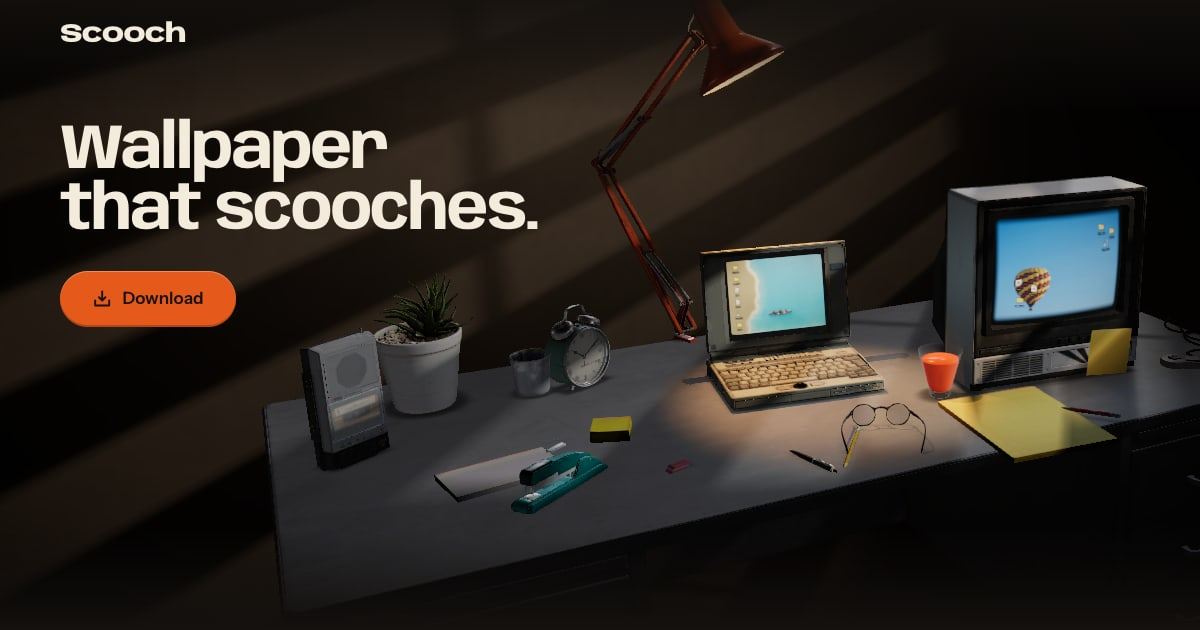
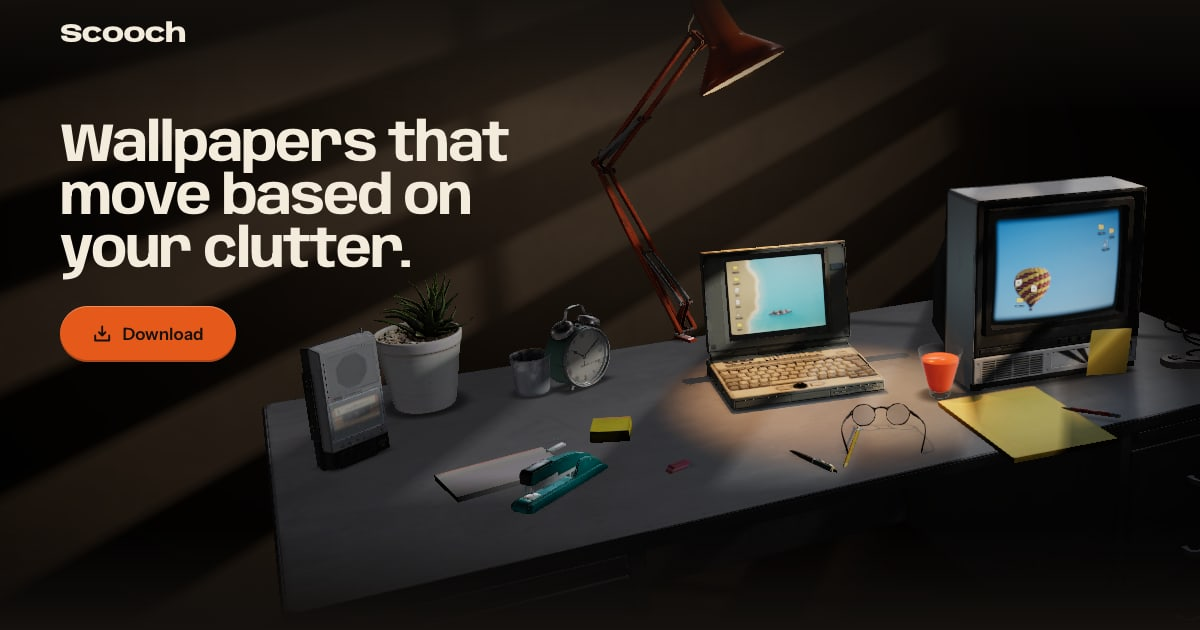
Reword and shrink the hero headline

Changed region(s): [[0.0308, 0.181, 0.4625, 0.573]]

diff --git a/site/index.html b/site/index.html
@@ -18,10 +18,10 @@
     <meta property="og:title" content="Scooch moves your wallpaper out from under your icons" />
     <meta property="og:description" content="Scooch moves your own wallpaper so desktop icons stay off the best part of the picture. It works with any image on macOS, Windows and Linux." />
     <meta property="og:url" content="https://sohanbhat.me/scooch/" />
-    <meta property="og:image" content="https://sohanbhat.me/scooch/share.jpg?v=4" />
+    <meta property="og:image" content="https://sohanbhat.me/scooch/share.jpg?v=5" />
     <meta property="og:image:width" content="1200" />
     <meta property="og:image:height" content="630" />
-    <meta property="og:image:alt" content="An old beige laptop on a metal desk under an orange lamp, next to the words Wallpaper that scooches." />
+    <meta property="og:image:alt" content="An old beige laptop on a metal desk under an orange lamp, next to the words Wallpapers that move based on your clutter." />
     <meta name="twitter:card" content="summary_large_image" />
     <script type="application/ld+json">{"@context":"https://schema.org","@type":"SoftwareSourceCode","name":"Scooch","url":"https://sohanbhat.me/scooch/","codeRepository":"https://github.com/sohan-bhat/scooch","author":{"@type":"Person","@id":"https://sohanbhat.me/#person","name":"Sohan Bhat","url":"https://sohanbhat.me/"}}</script>
     <script>document.documentElement.classList.add('js');var u=navigator.userAgent;document.documentElement.dataset.system=/[?&]share/.test(location.search)||/Android|iPhone|iPad|iPod/i.test(u)?'any':/Windows/i.test(u)?'windows':/Linux|X11|CrOS/i.test(u)?'linux':'macos';try{var c=document.createElement('canvas');c.width=c.height=1;var g=c.getContext('webgl2')||c.getContext('webgl');if(!g||/[?&]stills/.test(location.search))document.documentElement.classList.add('stills-mode')}catch(e){document.documentElement.classList.add('stills-mode')}</script>

diff --git a/site/sources/index.html b/site/sources/index.html
@@ -18,10 +18,10 @@
     <meta property="og:title" content="Sources for Scooch" />
     <meta property="og:description" content="Every model, picture, icon and typeface on the Scooch website, with its author and license." />
     <meta property="og:url" content="https://sohanbhat.me/scooch/sources/" />
-    <meta property="og:image" content="https://sohanbhat.me/scooch/share.jpg?v=4" />
+    <meta property="og:image" content="https://sohanbhat.me/scooch/share.jpg?v=5" />
     <meta property="og:image:width" content="1200" />
     <meta property="og:image:height" content="630" />
-    <meta property="og:image:alt" content="An old beige laptop on a metal desk under an orange lamp, next to the words Wallpaper that scooches." />
+    <meta property="og:image:alt" content="An old beige laptop on a metal desk under an orange lamp, next to the words Wallpapers that move based on your clutter." />
     <meta name="twitter:card" content="summary_large_image" />
     <script>document.documentElement.classList.add('js')</script>
   </head>

diff --git a/site/404.html b/site/404.html
@@ -16,10 +16,10 @@
     <meta property="og:title" content="Page not found on Scooch" />
     <meta property="og:description" content="This page moved out of the way." />
     <meta property="og:url" content="https://sohanbhat.me/scooch/" />
-    <meta property="og:image" content="https://sohanbhat.me/scooch/share.jpg?v=4" />
+    <meta property="og:image" content="https://sohanbhat.me/scooch/share.jpg?v=5" />
     <meta property="og:image:width" content="1200" />
     <meta property="og:image:height" content="630" />
-    <meta property="og:image:alt" content="An old beige laptop on a metal desk under an orange lamp, next to the words Wallpaper that scooches." />
+    <meta property="og:image:alt" content="An old beige laptop on a metal desk under an orange lamp, next to the words Wallpapers that move based on your clutter." />
     <meta name="twitter:card" content="summary_large_image" />
     <script>document.documentElement.classList.add('js')</script>
   </head>

diff --git a/site/src/styles/tokens.css b/site/src/styles/tokens.css
@@ -17,7 +17,7 @@
   --font-text: "Instrument Sans Variable", "Helvetica Neue", Arial, sans-serif;
   --font-mono: "Martian Mono Variable", ui-monospace, monospace;
 
-  --text-hero: clamp(min(2.5rem, 11.4vw), 1rem + 3.9vw, 5.2rem);
+  --text-hero: clamp(min(2.25rem, 10vw), 0.9rem + 3.3vw, 4.4rem);
   --text-beat: clamp(2.1rem, 1rem + 2.5vw, 3.9rem);
   --text-support: clamp(1.125rem, 1rem + 0.4vw, 1.4rem);
   --text-fact: clamp(1.75rem, 1.1rem + 2.4vw, 3.4rem);
